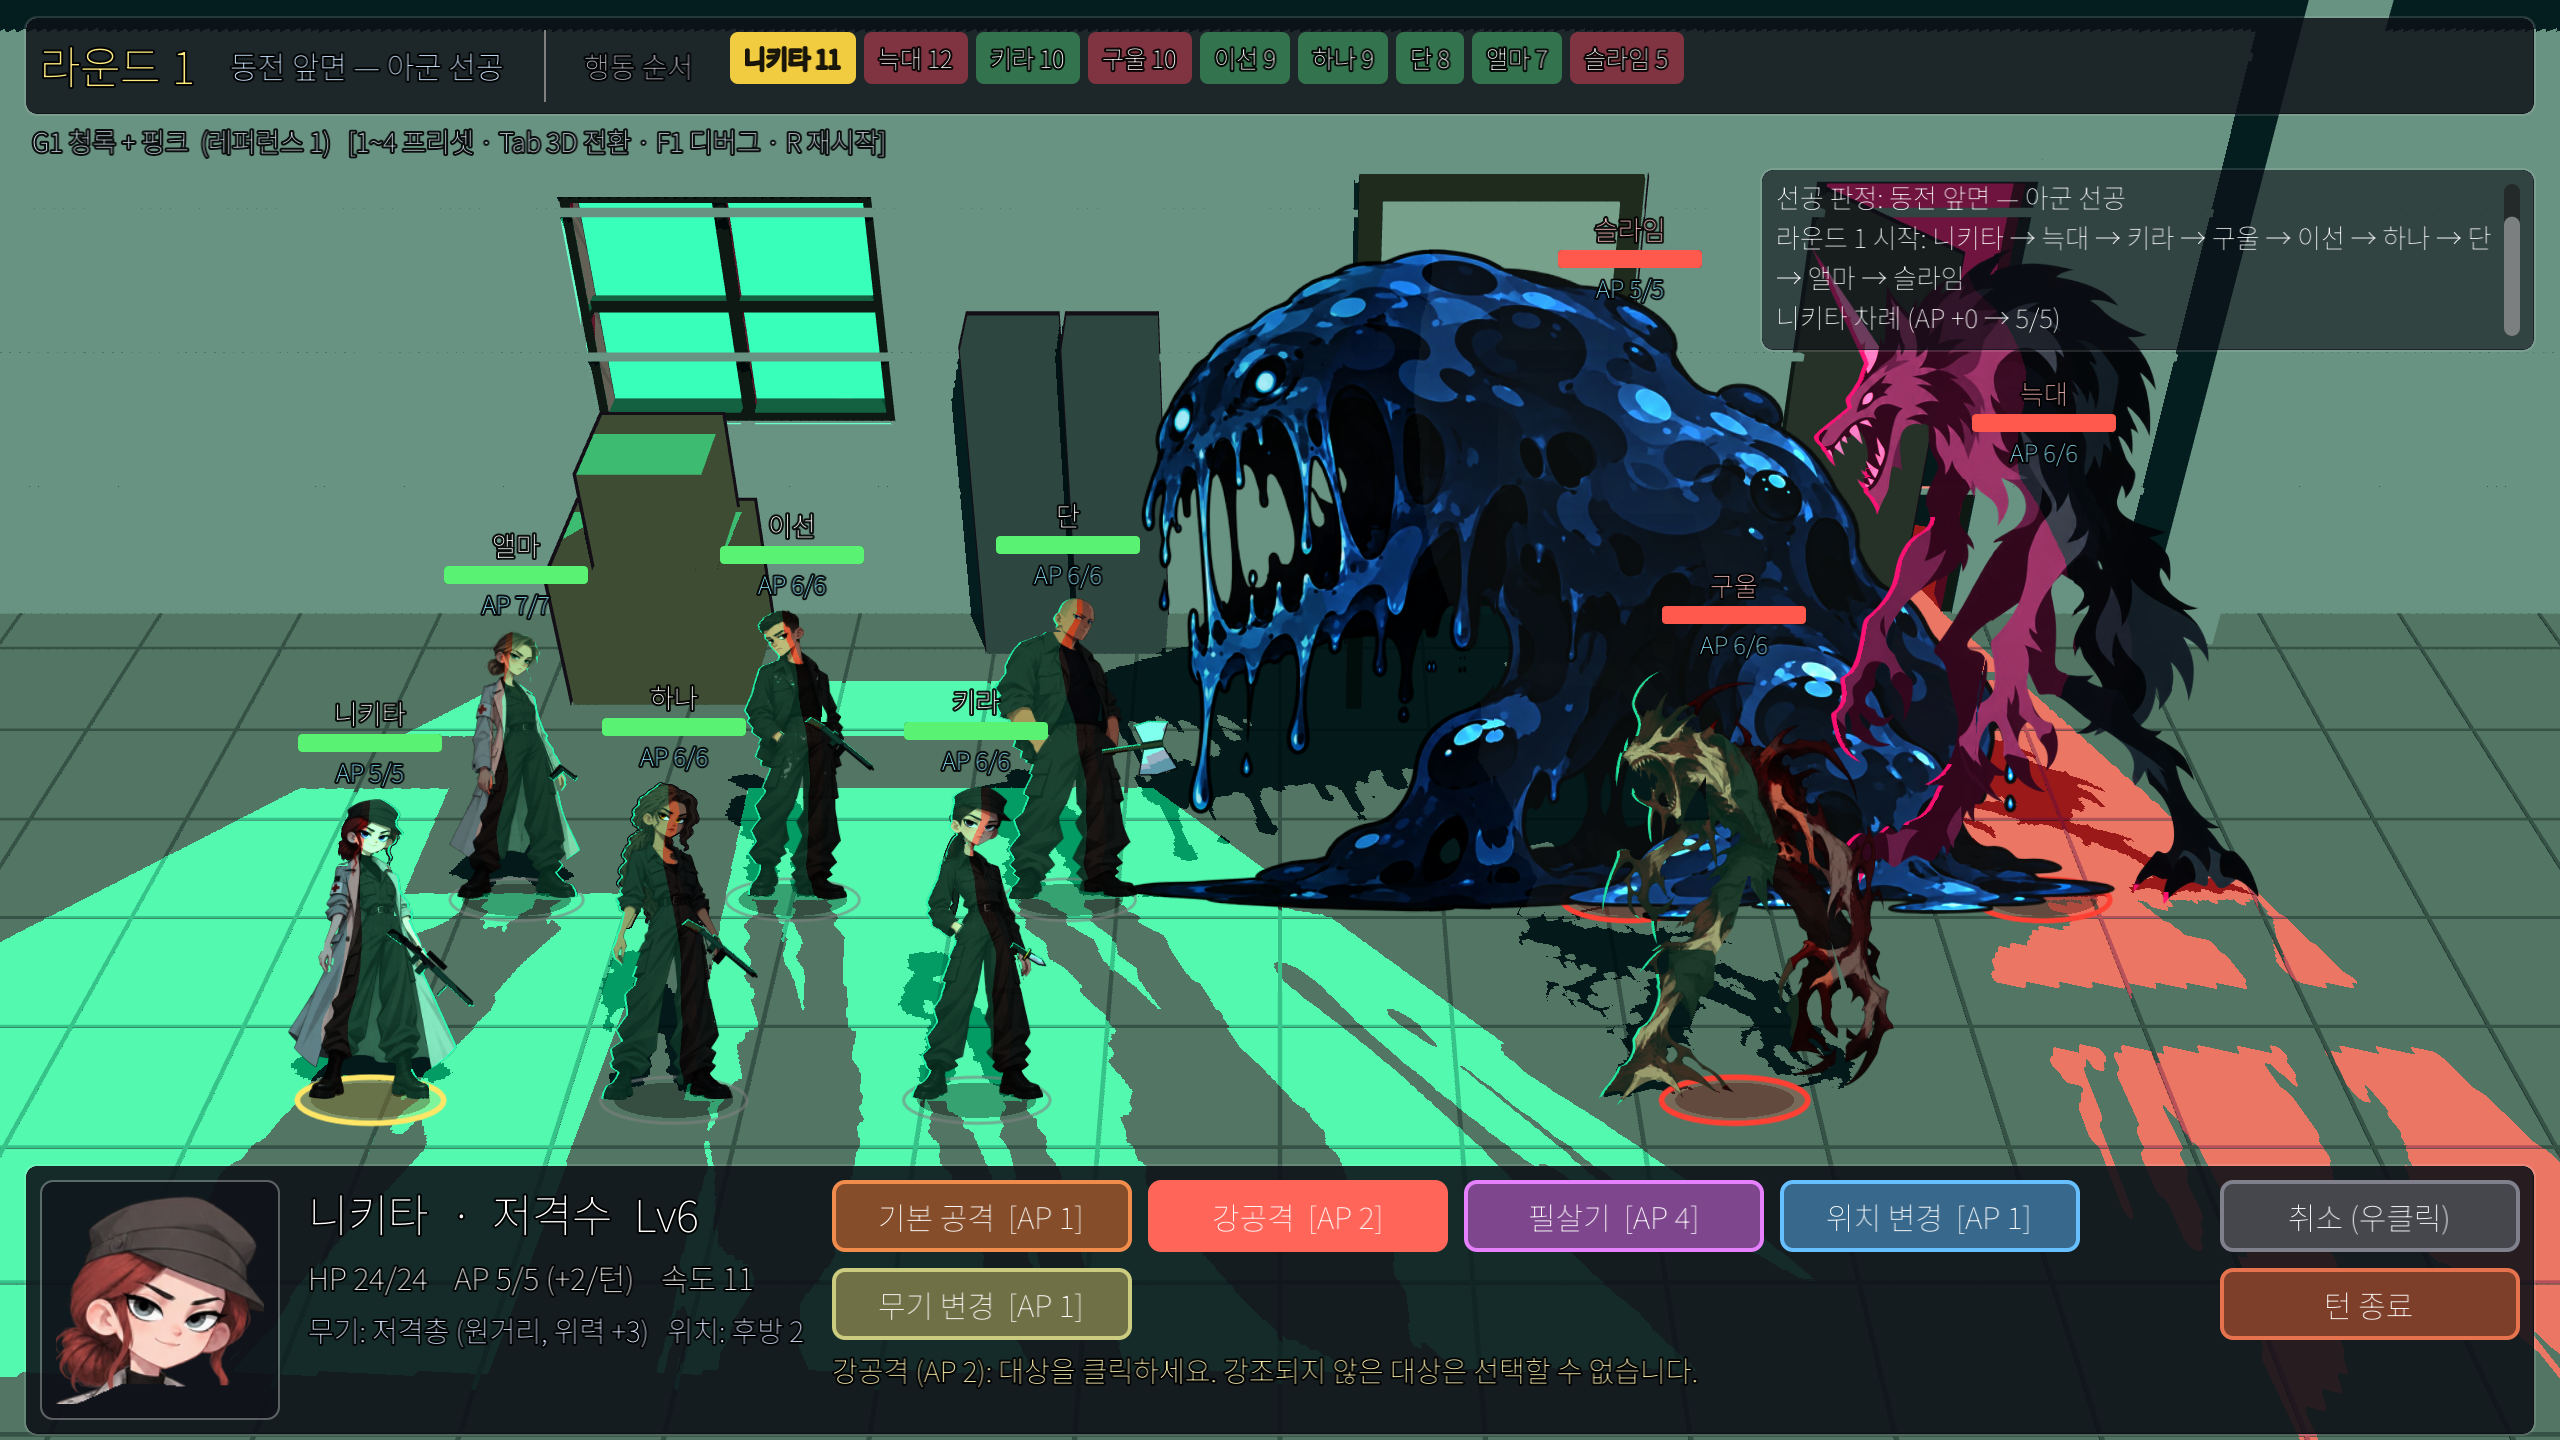
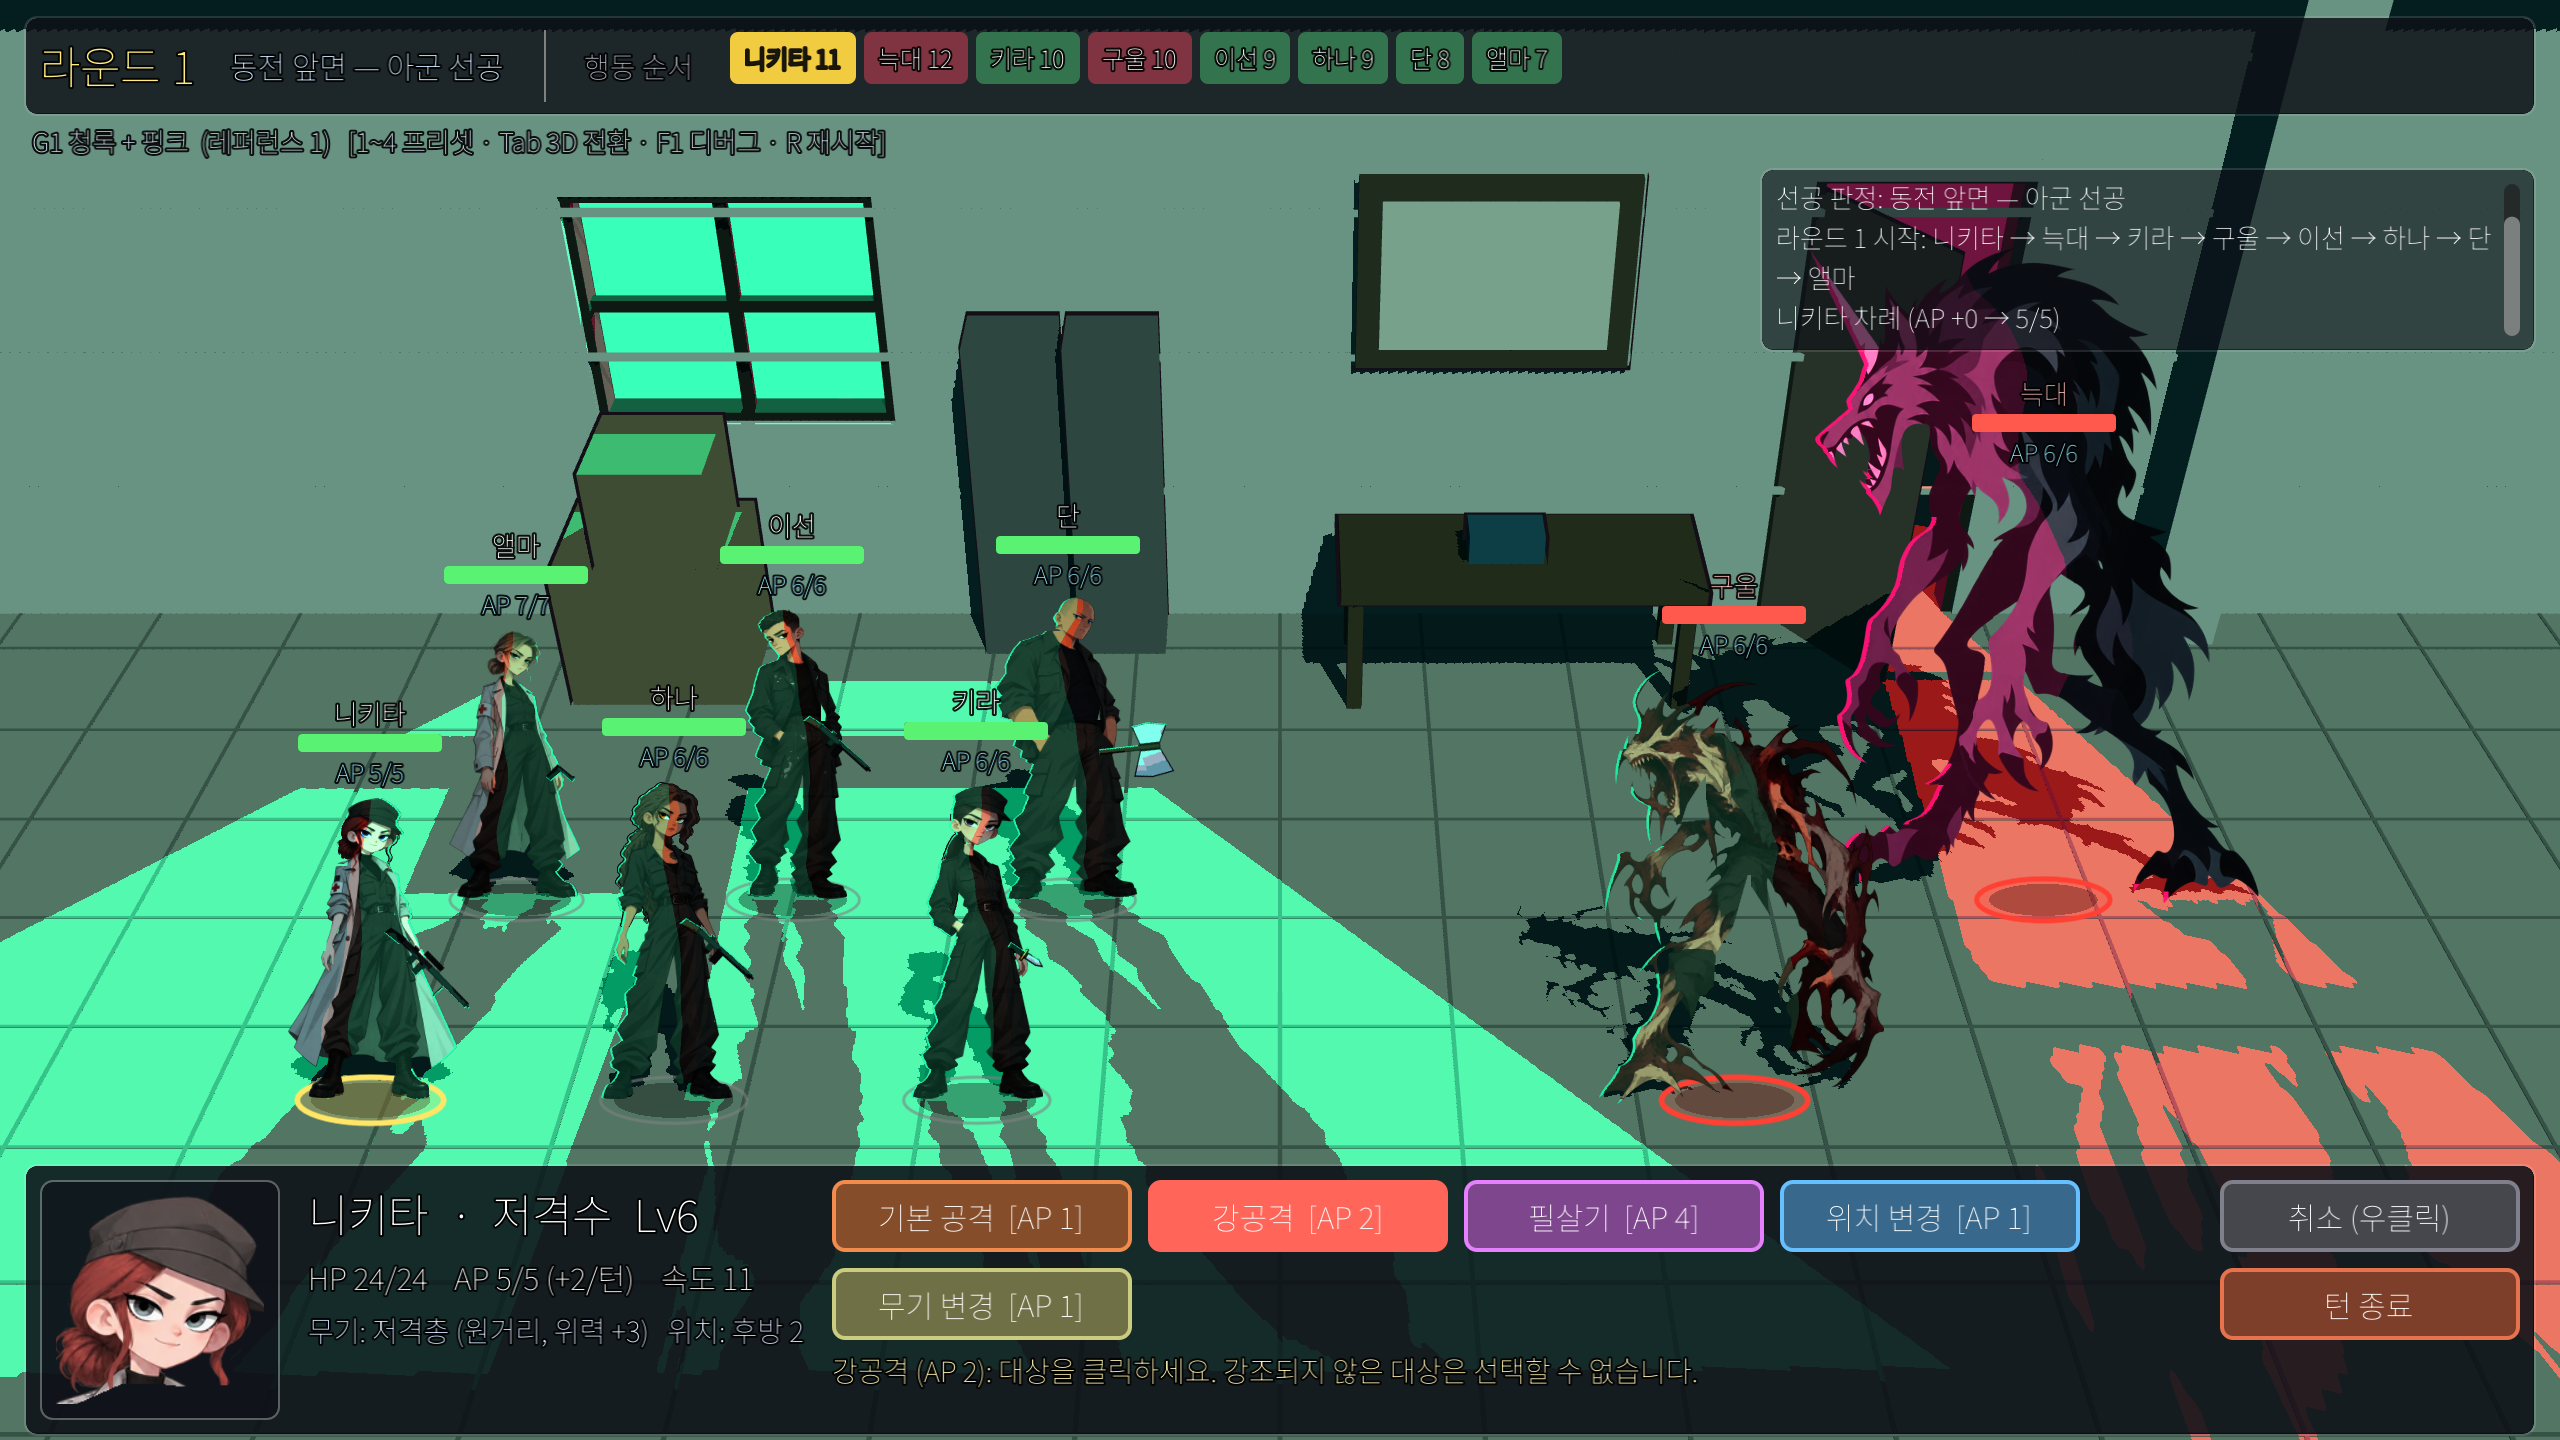
슬라임 제거: 적은 구울(전방·중앙 두 칸)·늑대(후방 한 칸)
- 적 편성에서 슬라임 제외 (리그 원화 rig_slime 은 남겨 둠)
- 테스트: 전방을 막은 구울만 근접 대상, 후방 늑대는 불가 확인 (69개 통과)

Claude-Session: https://claude.ai/code/session_014aytw3hj7boqn3SZ5GP5ti

diff --git a/docs/design/00_decision_log_v1_0.md b/docs/design/00_decision_log_v1_0.md
@@ -20,9 +20,9 @@
 
 - 제공 캐릭터 이름·키: **하나 176.8cm**, **니키타 168cm**, **키라 175cm**, **앨마 166cm**, **이선 178cm**, **단 185cm**. 화면 크기에 키 비율 반영.
   니키타 원화 = nikita-army(군모·밝은 회색 롱코트·의무 완장), 하나 = 곱슬 롱헤어·짙은 회색 전투복, 키라 = 군모·갈색 포니테일·짙은 전투복(왼손 주머니)·카고 팬츠.
-- 편성(6대3): **사람 캐릭터 6인은 모두 아군** — 전방 단·키라 / 중앙 이선·하나 / 후방 앨마·니키타.
-  **괴물은 적으로만 등장**: 구울(붉은 가시 살점·찢긴 정장, 키 2.4m)·슬라임(남청 점액, 키 4m)은 **전방+중앙 두 칸 차지**,
-  늑대(뿔 달린 회흑색 늑대인간, 키 4m)는 **한 칸**(후방).
+- 편성(6대2): **사람 캐릭터 6인은 모두 아군** — 전방 단·키라 / 중앙 이선·하나 / 후방 앨마·니키타.
+  **괴물은 적으로만 등장**: 구울(붉은 가시 살점·찢긴 정장, 키 2.4m)은 **전방+중앙 두 칸 차지**,
+  늑대(뿔 달린 회흑색 늑대인간, 키 4m)는 **한 칸**(후방). 슬라임은 제거 (2026-10-25, 리그 `rig_slime` 은 남겨 둠).
 - 큰 몸집 규칙: 한 유닛이 같은 줄(index)의 연속한 두 열을 차지할 수 있다 (`row_span`). 살아 있는 동안 두 열 모두에 있는 것으로 보아
   전방을 막고(근접 대상), 자리 이동·교환 불가, 쓰러지면 두 칸 모두 빈다. 화면에서는 두 칸의 가운데에 선다.
   앨마 = 금갈색 올림머리·밝은 회색 롱코트(적십자 완장, 의무병), 이선 = 짧은 갈색 머리·짙은 재킷(양손 주머니), 단 = 민머리·큰 체격·소매 걷은 재킷(양손 주머니).

diff --git a/README.md b/README.md
@@ -55,9 +55,9 @@ git 이 없는 설치(zip)는 같은 설치 명령을 다시 실행하면 최신
 3D 뷰도 같은 각도(40°)로 맞춰 두었습니다.
 
 ## 전투 편성 (게임 기본)
-게임은 **사용자 제공 원화 캐릭터만** 배치합니다 (6대3, `TestRoster.build_provided_*`):
+게임은 **사용자 제공 원화 캐릭터만** 배치합니다 (6대2, `TestRoster.build_provided_*`):
 - 아군(사람 6인): 단(돌격병 185cm, 전방)·키라(돌격병 175cm, 전방)·이선(소총수 178cm, 중앙)·하나(돌격소총수 176.8cm, 중앙)·앨마(의무병 166cm, 후방)·니키타(저격수 168cm, 후방)
-- 적(괴물, 적으로만 등장): 구울(2.4m)·슬라임(4m) — **전방+중앙 두 칸 차지** (`UnitData.row_span = 2`), 늑대(4m) — 후방 한 칸
+- 적(괴물, 적으로만 등장): 구울(2.4m) — **전방+중앙 두 칸 차지** (`UnitData.row_span = 2`), 늑대(4m) — 후방 한 칸
   두 칸 괴물은 살아 있는 동안 전방을 막고(근접은 괴물부터), 자리 이동·교환을 하지 않으며, 두 칸의 가운데에 선다.
 도형으로 생성한 12인(`build_allies/build_enemies`)은 규칙 테스트와 리그 벤치에서만 씁니다.
 새 캐릭터 추가: 원화를 `assets/source/` 에 두고(검정 배경 원화는 먼저 `python3 tools/remove_black_bg.py 입력 출력` 으로 투명화) `tools/rig_cutter.py` 의 `CHARACTERS` 에 본·파츠 좌표를 추가 →
